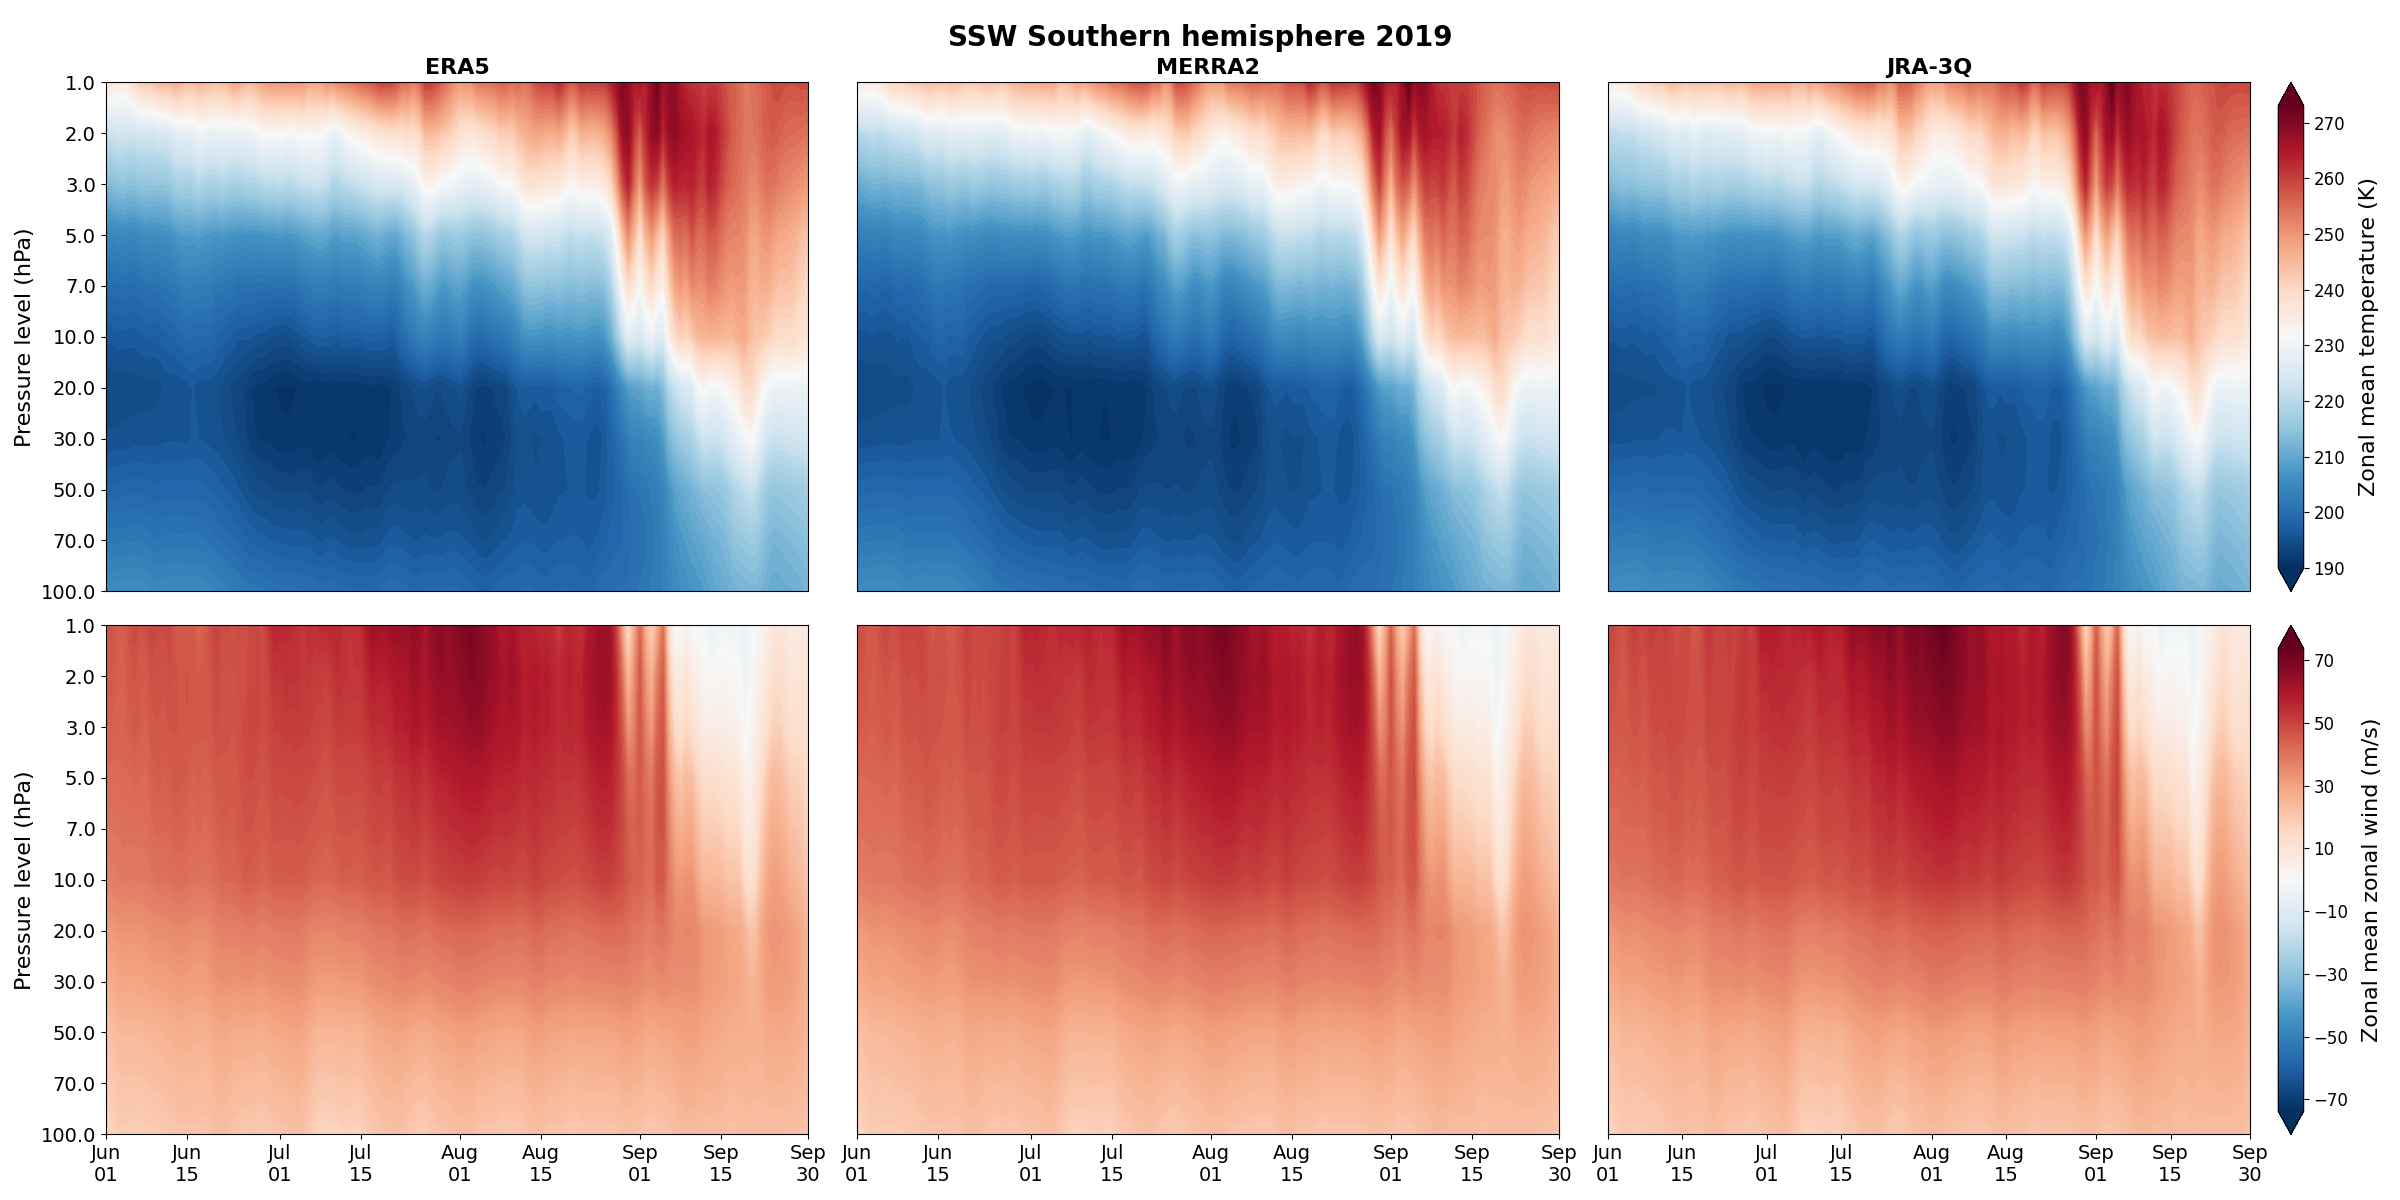
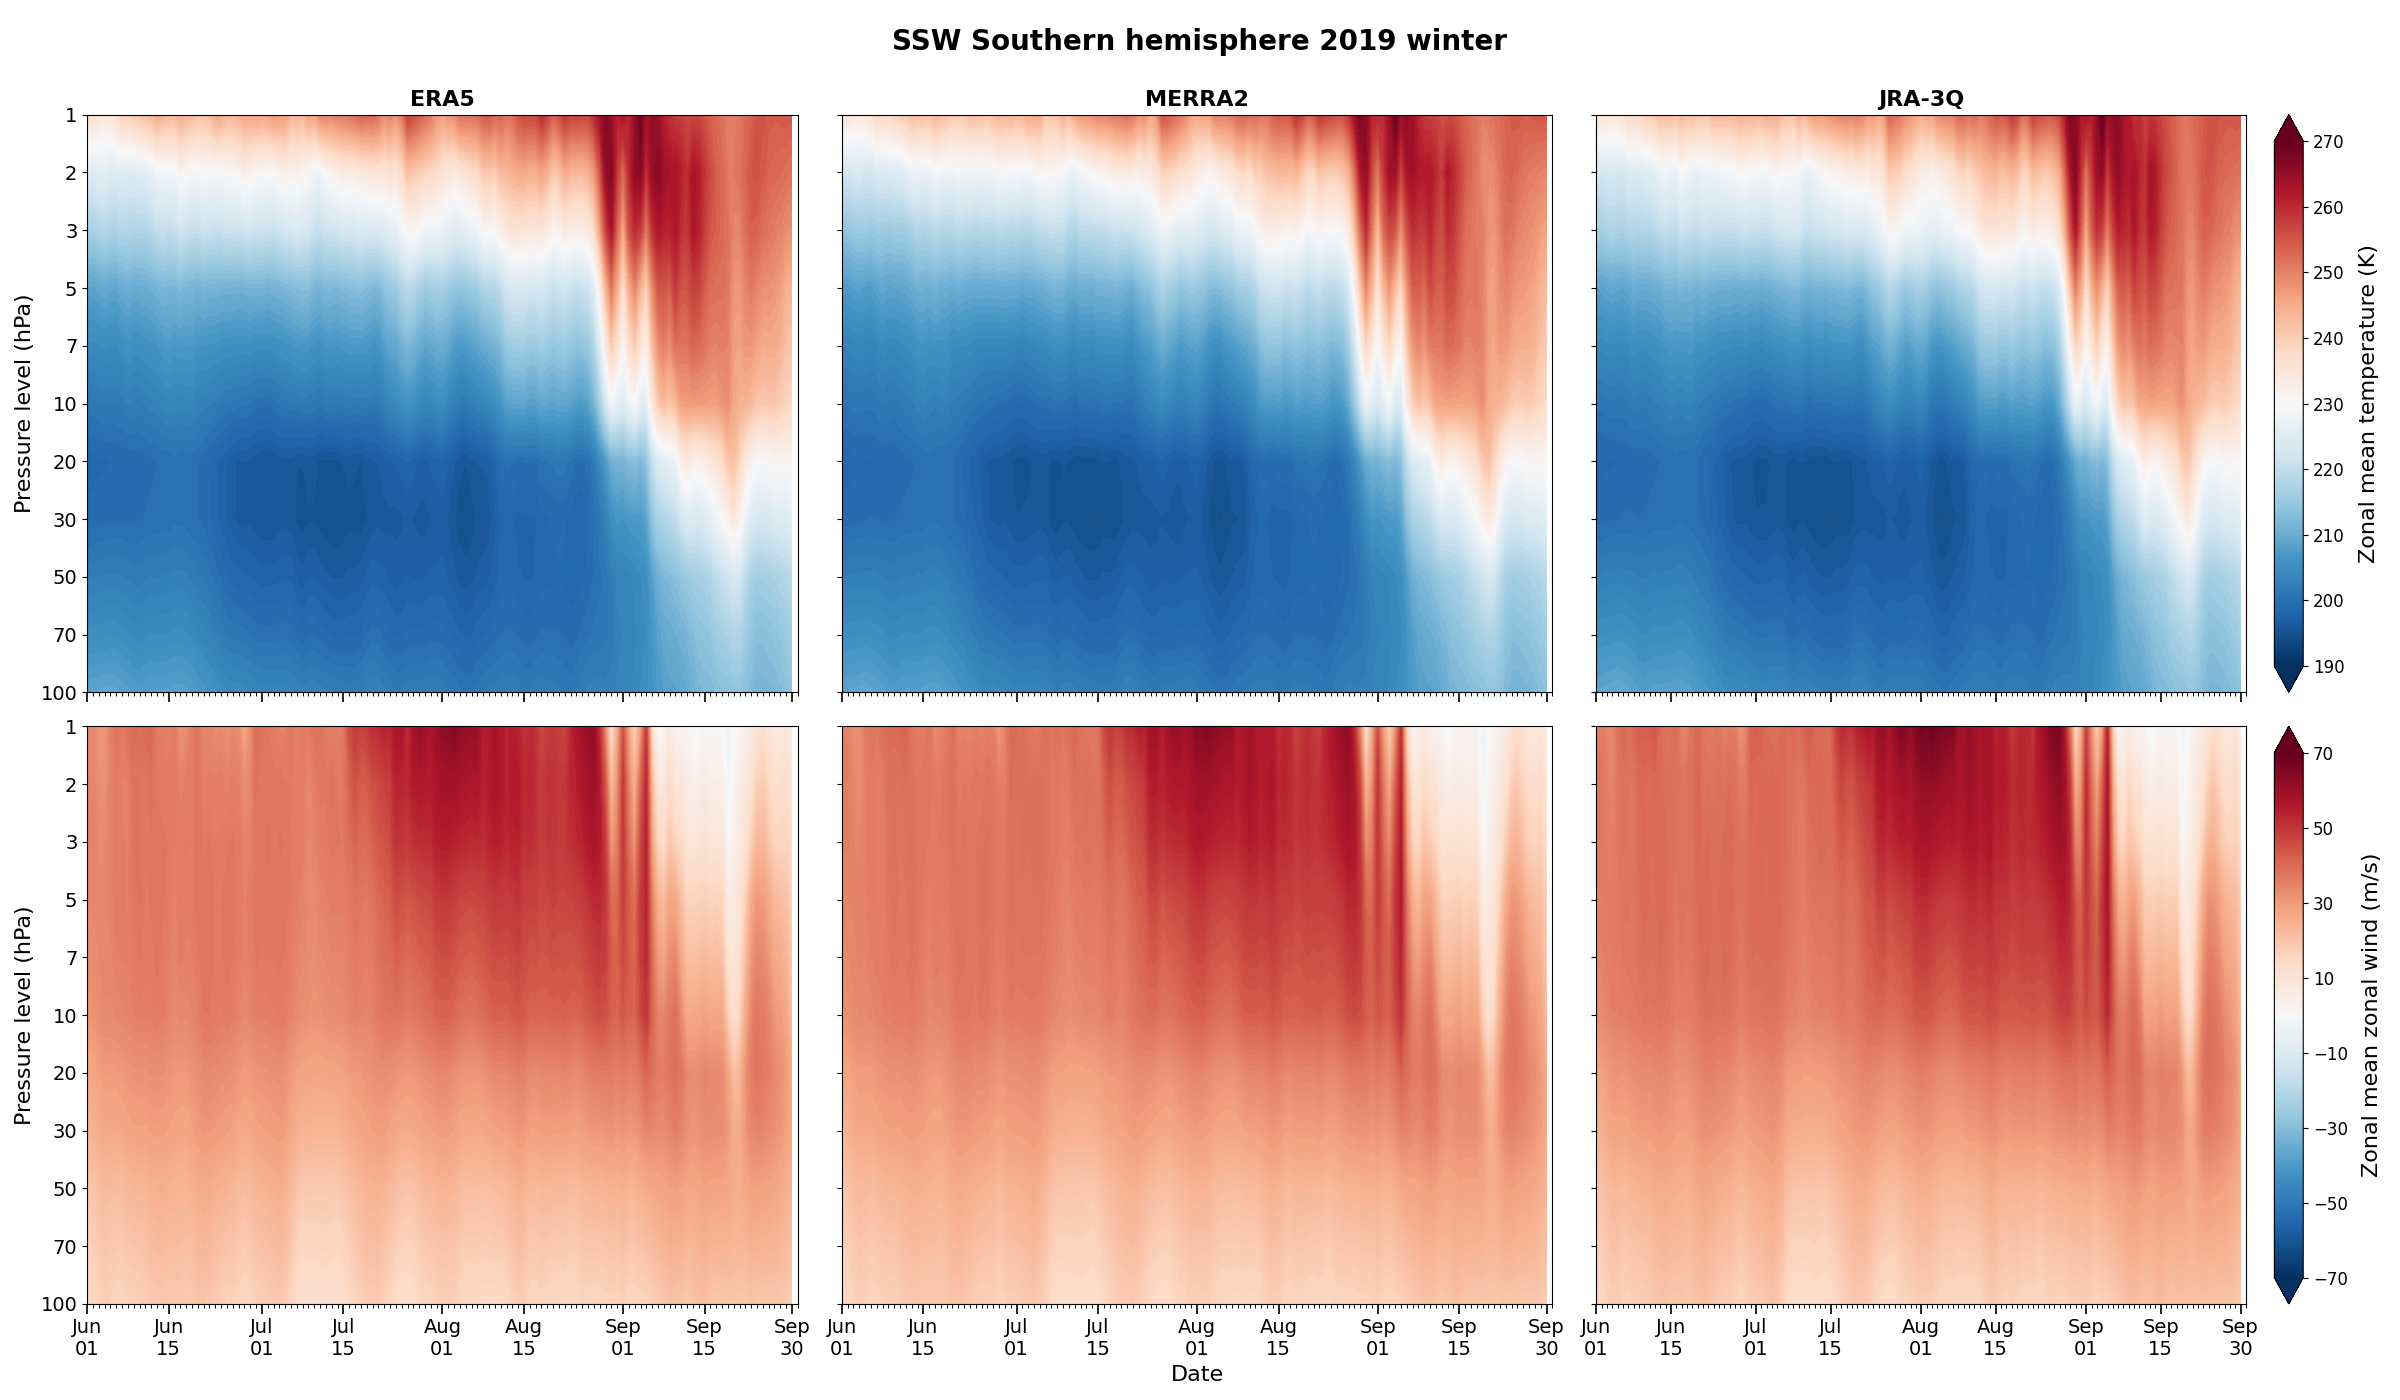
Fixed axes and colorbar

diff --git a/graphs.py b/graphs.py
@@ -18,44 +18,62 @@ def vykresli(ax, data, title, xlabels, ylabels, vmin=None, vmax=None, cmap='RdBu
         ax.set_yticklabels(ylabels)
     else:
         ax.set_yticklabels([])
-        ax.set_yticks([])
+        ax.set_yticks(range(len(ylabels)))
     if p == 1 or p == 2 or p == 3:
         ax.set_title(title, fontsize=16, weight='bold')
         ax.set_xticks([])
         ax.set_xticklabels([])
     if p == 4 or p == 5 or p == 6:
-        xticks = []
-        xticklabels = []
-        for i, label in enumerate(xlabels):
-            day = datetime.strptime(label, "%d/%m/%Y").day
-            if day in (1, 15) or i == len(xlabels) - 1:
-                xticks.append(i)
-                xticklabels.append(format_date_label(label))
-        ax.set_xticks(xticks)
+        if p == 5:
+            ax.set_xlabel("Date", fontsize=16)
+
+    xticks = []
+    xticklabels = []
+    for i, label in enumerate(xlabels):
+        day = datetime.strptime(label, "%d/%m/%Y").day
+        if day in (1, 15) or i == len(xlabels) - 1:
+            xticks.append(i)
+            xticklabels.append(format_date_label(label))
+
+    ax.set_xticks(xticks)
+    minor_xticks = list(range(len(xlabels) + 1))
+    ax.set_xticks(minor_xticks, minor=True)
+
+    if p in (1, 2, 3):
+        ax.set_title(title, fontsize=16, weight='bold')
+        ax.set_xticklabels([])  # bez textu
+        ax.tick_params(axis='x', which='minor', length=3, width=0.7)
+        ax.tick_params(axis='x', which='major', length=7, width=1.2)
+
+    if p in (4, 5, 6):
+        if p == 5:
+            ax.set_xlabel("Date", fontsize=16)
         ax.set_xticklabels(xticklabels, fontsize=14)
+        ax.tick_params(axis='x', which='minor', length=3, width=0.7)
+        ax.tick_params(axis='x', which='major', length=7, width=1.2)
     if p == 6 and not d:
-        sm = mpl.cm.ScalarMappable(norm=mpl.colors.Normalize(-max(abs(vmin), vmax, 70), max(abs(vmin), vmax, 70)), cmap=cmap)
+        sm = mpl.cm.ScalarMappable(norm=mpl.colors.Normalize(-70,70), cmap=cmap)
         sm.set_array([])
         cbar = fig.colorbar(sm, ax=ax, extend='both', orientation='vertical', fraction=0.046, pad=0.04)
         cbar.set_label("Zonal mean zonal wind (m/s)", labelpad=10, fontsize=16)
         cbar.set_ticks([i for i in range(-70, 80, 20)])
         cbar.ax.tick_params(labelsize=12)
-    if p == 6 and d:
-        sm = mpl.cm.ScalarMappable(norm=mpl.colors.Normalize(-max(abs(vmin), vmax, 4), max(abs(vmin), vmax, 4)), cmap=cmap)
+    if p == 3 and d:
+        sm = mpl.cm.ScalarMappable(norm=mpl.colors.Normalize(-4, 4), cmap=cmap)
         sm.set_array([])
         cbar = fig.colorbar(sm, ax=ax, extend='both', orientation='vertical', fraction=0.046, pad=0.04)
         cbar.set_label("Zonal mean temperature (K)", labelpad=10, fontsize=16)
         cbar.set_ticks([i for i in range(-4, 5)])
         cbar.ax.tick_params(labelsize=12)
     if p == 3 and not d:
-        sm = mpl.cm.ScalarMappable(norm=mpl.colors.Normalize(round(int(vmin)/10)*10, vmax), cmap=cmap)
+        sm = mpl.cm.ScalarMappable(norm=mpl.colors.Normalize(190, 270), cmap=cmap)
         sm.set_array([])
         cbar = fig.colorbar(sm, ax=ax, extend='both', orientation='vertical', fraction=0.046, pad=0.04)
         cbar.set_label("Zonal mean temperature (K)", labelpad=10, fontsize=16)
-        cbar.set_ticks([i for i in range(round(int(vmin)/10)*10, int(vmax)+1, 10)])
+        cbar.set_ticks([i for i in range(190, 280, 10)])
         cbar.ax.tick_params(labelsize=12)
-    if p == 3 and d:
-        sm = mpl.cm.ScalarMappable(norm=mpl.colors.Normalize(-max(abs(vmin), vmax, 4), max(abs(vmin), vmax, 4)), cmap=cmap)
+    if p == 6 and d:
+        sm = mpl.cm.ScalarMappable(norm=mpl.colors.Normalize(-4, 4), cmap=cmap)
         sm.set_array([])
         cbar = fig.colorbar(sm, ax=ax, extend='both', orientation='vertical', fraction=0.046, pad=0.04)
         cbar.set_label("Zonal mean zonal wind (m/s)", labelpad=10, fontsize=16)
@@ -88,7 +106,7 @@ vmax_wind = max(np.max(eu_arr), np.max(mu_arr), np.max(ju))
 vmin_temp = min(np.min(et_arr), np.min(mt_arr), np.min(jt))
 vmax_temp = max(np.max(et_arr), np.max(mt_arr), np.max(jt))
 
-fig, axs = plt.subplots(2, 3, figsize=(24, 12))
+fig, axs = plt.subplots(2, 3, figsize=(24, 14))
 axs = axs.flatten()
 
 tituly = ["ERA5", "MERRA2", "JRA-3Q", "", "", ""]
@@ -101,16 +119,16 @@ pp = 0
 for ax, title, data, vmin_, vmax_ in zip(axs, tituly, data_sady, vmin_sady, vmax_sady):
     pp += 1
     cbar = vykresli(ax, data, title, ti, p, vmin=vmin_, vmax=vmax_, p=pp)
-fig.suptitle(f"SSW Southern hemisphere {rok}", fontsize=20, weight='bold')
+fig.suptitle(f"SSW Southern hemisphere {rok} winter\n", fontsize=20, weight='bold')
 
 plt.tight_layout()
 fig.savefig(f"All_{rok}.png")
 plt.close(fig)
 
-fig_all_diff, axs_all = plt.subplots(2, 3, figsize=(24, 12))
+fig_all_diff, axs_all = plt.subplots(2, 3, figsize=(24, 14))
 axs_all = axs_all.flatten()
 
-tituly_diff_all = ["ERA5 - MERRA2", "ERA5 - JRA-3Q", "MERRA2 - JRA-3Q", "", "", ""]
+tituly_diff_all = ["ERA5 vs. MERRA2", "ERA5 vs. JRA-3Q", "MERRA2 vs. JRA-3Q", "", "", ""]
 pp = 0
 data_diff_all = [et_mt_diff, et_jt_diff, mt_jt_diff, eu_mu_diff, eu_ju_diff, mu_ju_diff]
 vlims_diff = [np.max(np.abs(d)) for d in data_diff_all]
@@ -118,7 +136,7 @@ vlims_diff = [np.max(np.abs(d)) for d in data_diff_all]
 for ax, title, data, vlim in zip(axs_all, tituly_diff_all, data_diff_all, vlims_diff):
     pp += 1
     cbar = vykresli(ax, data, title, ti, p, vmin=-vlim, vmax=vlim, p=pp, d=True)
-fig_all_diff.suptitle(f"SSW Southern hemisphere {rok}", fontsize=20, weight='bold')
+fig_all_diff.suptitle(f"SSW Southern hemisphere {rok} winter\n", fontsize=20, weight='bold')
 
 plt.tight_layout()
 fig_all_diff.savefig(f"All_differences_{rok}.png")
@@ -156,7 +174,7 @@ detail_vmax_wind = max(np.max(detail_eu), np.max(detail_mu), np.max(detail_ju))
 detail_vmin_temp = min(np.min(detail_et), np.min(detail_mt), np.min(detail_jt))
 detail_vmax_temp = max(np.max(detail_et), np.max(detail_mt), np.max(detail_jt))
 
-fig_detail, axs_detail = plt.subplots(2, 3, figsize=(24, 12))
+fig_detail, axs_detail = plt.subplots(2, 3, figsize=(24, 14))
 axs_detail = axs_detail.flatten()
 
 tituly_detail = ["ERA5", "MERRA2", "JRA-3Q", "", "", ""]
@@ -169,16 +187,17 @@ pp = 0
 for ax, title, data, vmin_, vmax_ in zip(axs_detail, tituly_detail, data_sady_detail, vmin_sady_detail, vmax_sady_detail):
     pp += 1
     cbar = vykresli(ax, data, title, ti, detail_p, vmin=vmin_, vmax=vmax_, p=pp)
-fig_detail.suptitle(f"SSW Southern hemisphere {rok}", fontsize=20, weight='bold')
+fig_detail.suptitle(f"SSW Southern hemisphere {rok} winter\n", fontsize=20, weight='bold')
 
 plt.tight_layout()
 fig_detail.savefig(f"All_detailed_1_10_{rok}.png")
 plt.close(fig_detail)
 
-fig_detail_diff, axs_detail_diff = plt.subplots(2, 3, figsize=(24, 12))
+fig_detail_diff, axs_detail_diff = plt.subplots(2, 3, figsize=(24, 14))
 axs_detail_diff = axs_detail_diff.flatten()
 
-tituly_diff_detail = ["ERA5 - MERRA2", "ERA5 - JRA-3Q", "MERRA2 - JRA-3Q", "", "", ""]
+tituly_diff_detail = ["ERA5 vs. MERRA2", "ERA5 vs. JRA-3Q", "MERRA2 vs. JRA-3Q", "", "", ""]
+# a), ... f)
 
 data_diff_detail = [detail_et_mt_diff, detail_et_jt_diff, detail_mt_jt_diff, detail_eu_mu_diff, detail_eu_ju_diff, detail_mu_ju_diff]
 vlims_diff_detail = [np.max(np.abs(d)) for d in data_diff_detail]
@@ -187,7 +206,7 @@ pp = 0
 for ax, title, data, vlim in zip(axs_detail_diff, tituly_diff_detail, data_diff_detail, vlims_diff_detail):
     pp += 1
     cbar = vykresli(ax, data, title, ti, detail_p, vmin=-vlim, vmax=vlim, p=pp, d=True)
-fig_detail_diff.suptitle(f"SSW Southern hemisphere {rok}", fontsize=20, weight='bold')
+fig_detail_diff.suptitle(f"SSW Southern hemisphere {rok} winter\n", fontsize=20, weight='bold')
 
 plt.tight_layout()
 fig_detail_diff.savefig(f"All_differences_detailed_1_10_{rok}.png")

diff --git a/zpracovani.py b/zpracovani.py
@@ -27,7 +27,6 @@ def format_date_label(date_str):
     dt = datetime.strptime(date_str, "%d/%m/%Y")
     return dt.strftime("%b\n%d")
 
-
 def dates(s, inp, out, x):
     try:
         for i in range(len(inp.variables['valid_time'][:])):
@@ -69,23 +68,34 @@ def prumeruj_po_4(data):
             nove_data.append(avg)
     return np.array(nove_data)
 
+def vyber_sirky(dataset):
+    for key in ['latitude', 'lat']:
+        if key in dataset.variables:
+            sirky = dataset.variables[key][:]
+            break
+    else:
+        raise KeyError("Latitude variable not found")
+    indexy = np.where((sirky >= -90) & (sirky <= -60))[0]
+    return indexy
+
+
 def euf():
     folder = "./Era_2019" if rok == 2019 else "./Era_2002"
     files = ["eu6.nc", "eu7.nc", "eu8.nc", "eu9.nc"] if rok == 2019 else ["eu208.nc", "eu209.nc", "eu210.nc", "eu211.nc"]
-    data = []
-    time_labels = []
-    x = 0
-    z = 0
+    data, time_labels = [], []
+    x = z = 0
     for f in files:
         dataset = Dataset(os.path.join(folder, f))
-        var_data = dataset.variables['u'][:]
-        pressure_levels = dataset.variables['pressure_level'][:]
+        lat_idx = vyber_sirky(dataset)
+        var_data = dataset.variables['u'][:, :, lat_idx, :]
+        pressure_levels = dataset.variables['pressure_level'][:].astype(int)
         if rok == 2002:
-            time_labels, z = dates(f"01/08/2002", dataset, time_labels, z)
-        if rok == 2019:
-            time_labels, z = dates(f"01/06/2019", dataset, time_labels, z)
+            time_labels, z = dates("01/08/2002", dataset, time_labels, z)
+        else:
+            time_labels, z = dates("01/06/2019", dataset, time_labels, z)
         x, data = av(var_data, data, x)
     return data, time_labels, pressure_levels
+
 
 def etf():
     folder = "./Era_2019" if rok == 2019 else "./Era_2002"
@@ -94,9 +104,11 @@ def etf():
     x = 0
     for f in files:
         dataset = Dataset(os.path.join(folder, f))
-        var_data = dataset.variables['t'][:]
+        lat_idx = vyber_sirky(dataset)
+        var_data = dataset.variables['t'][:, :, lat_idx, :]
         x, data = av(var_data, data, x)
     return data
+
 
 def muf():
     folder = "./Merra_2019" if rok == 2019 else "./Merra_2002"
@@ -105,9 +117,11 @@ def muf():
     x = 0
     for f in files:
         dataset = Dataset(os.path.join(folder, f))
-        var_data = prumeruj_po_8(dataset.variables['U'][:])
+        lat_idx = vyber_sirky(dataset)
+        var_data = prumeruj_po_8(dataset.variables['U'][:, :, lat_idx, :])
         x, data = av(var_data, data, x)
     return data
+
 
 def mtf():
     folder = "./Merra_2019" if rok == 2019 else "./Merra_2002"
@@ -116,29 +130,31 @@ def mtf():
     x = 0
     for f in files:
         dataset = Dataset(os.path.join(folder, f))
-        var_data = prumeruj_po_8(dataset.variables['T'][:])
+        lat_idx = vyber_sirky(dataset)
+        var_data = prumeruj_po_8(dataset.variables['T'][:, :, lat_idx, :])
         x, data = av(var_data, data, x)
     return data
+
 
 def juf():
     folder = "./Jra_2019" if rok == 2019 else "./Jra_2002"
     files = ["ju6.nc", "ju7.nc", "ju8.nc", "ju9.nc"] if rok == 2019 else ["ju208.nc", "ju209.nc", "ju210.nc", "ju211.nc"]
-    data = []
-    time_labels = []
-    x = 0
-    z = 0
+    data, time_labels = [], []
+    x = z = 0
     vybrane_tlaky = [100, 70, 50, 30, 20, 10, 7, 5, 3, 2, 1]
     for f in files:
         with Dataset(os.path.join(folder, f)) as dataset:
+            lat_idx = vyber_sirky(dataset)
             all_pressures = dataset.variables['pressure_level'][:]
             indexy = [i for i, p in enumerate(all_pressures) if p in vybrane_tlaky]
             indexy = sorted(indexy, key=lambda i: vybrane_tlaky.index(all_pressures[i]))
-            var_data = prumeruj_po_4(dataset.variables['ugrd-pres-an-ll125'][:])
+            var_data = prumeruj_po_4(dataset.variables['ugrd-pres-an-ll125'][:, :, lat_idx, :])
             vybrana_data = var_data[:, indexy, :, :]
             time_labels, z = dates(f"01/06/{rok}", dataset, time_labels, z)
             x, data = av(vybrana_data, data, x)
             pressure_levels = all_pressures[indexy]
     return np.array(data), time_labels, pressure_levels
+
 
 def jtf():
     folder = "./Jra_2019" if rok == 2019 else "./Jra_2002"
@@ -148,10 +164,11 @@ def jtf():
     vybrane_tlaky = [100, 70, 50, 30, 20, 10, 7, 5, 3, 2, 1]
     for f in files:
         with Dataset(os.path.join(folder, f)) as dataset:
+            lat_idx = vyber_sirky(dataset)
             all_pressures = dataset.variables['pressure_level'][:]
             indexy = [i for i, p in enumerate(all_pressures) if p in vybrane_tlaky]
             indexy = sorted(indexy, key=lambda i: vybrane_tlaky.index(all_pressures[i]))
-            var_data = prumeruj_po_4(dataset.variables['tmp-pres-an-ll125'][:])
+            var_data = prumeruj_po_4(dataset.variables['tmp-pres-an-ll125'][:, :, lat_idx, :])
             vybrana_data = var_data[:, indexy, :, :]
             x, data = av(vybrana_data, data, x)
     return np.array(data)
